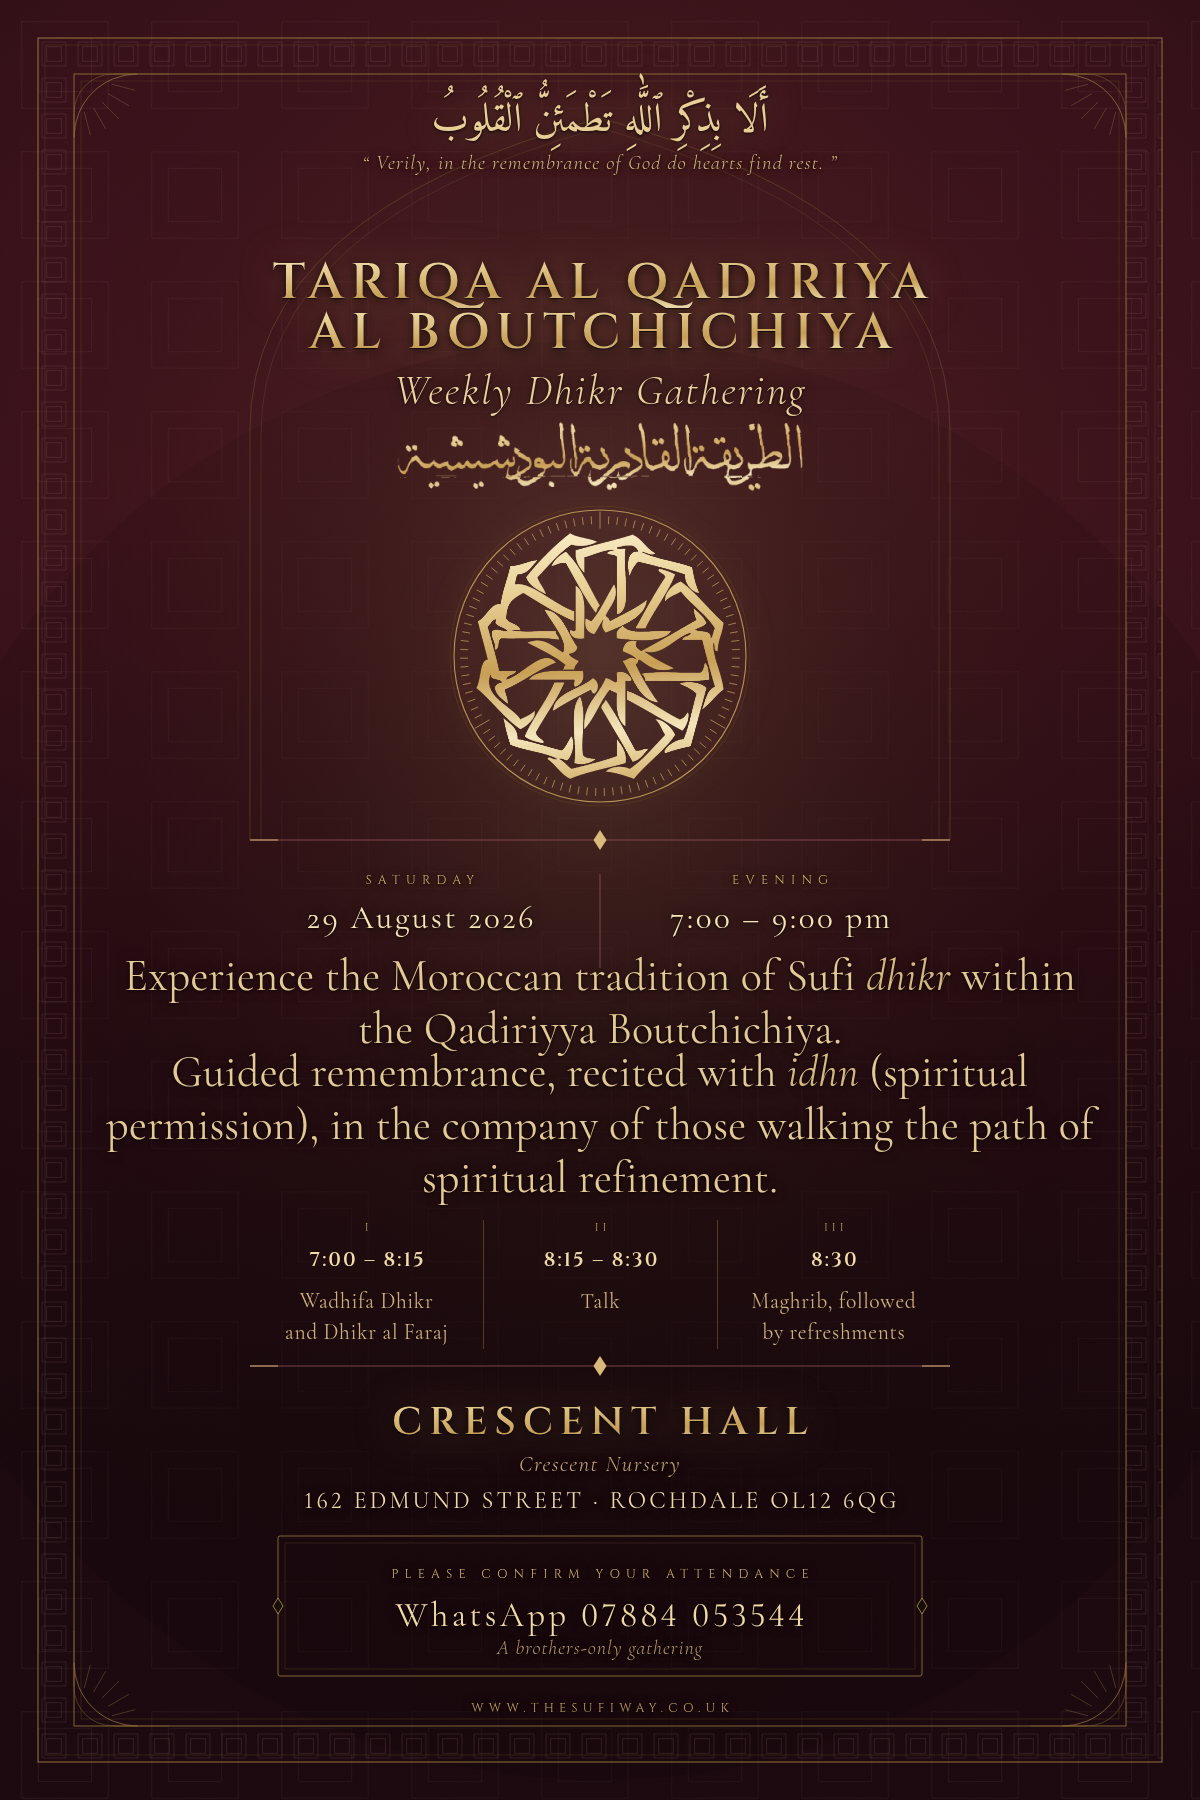
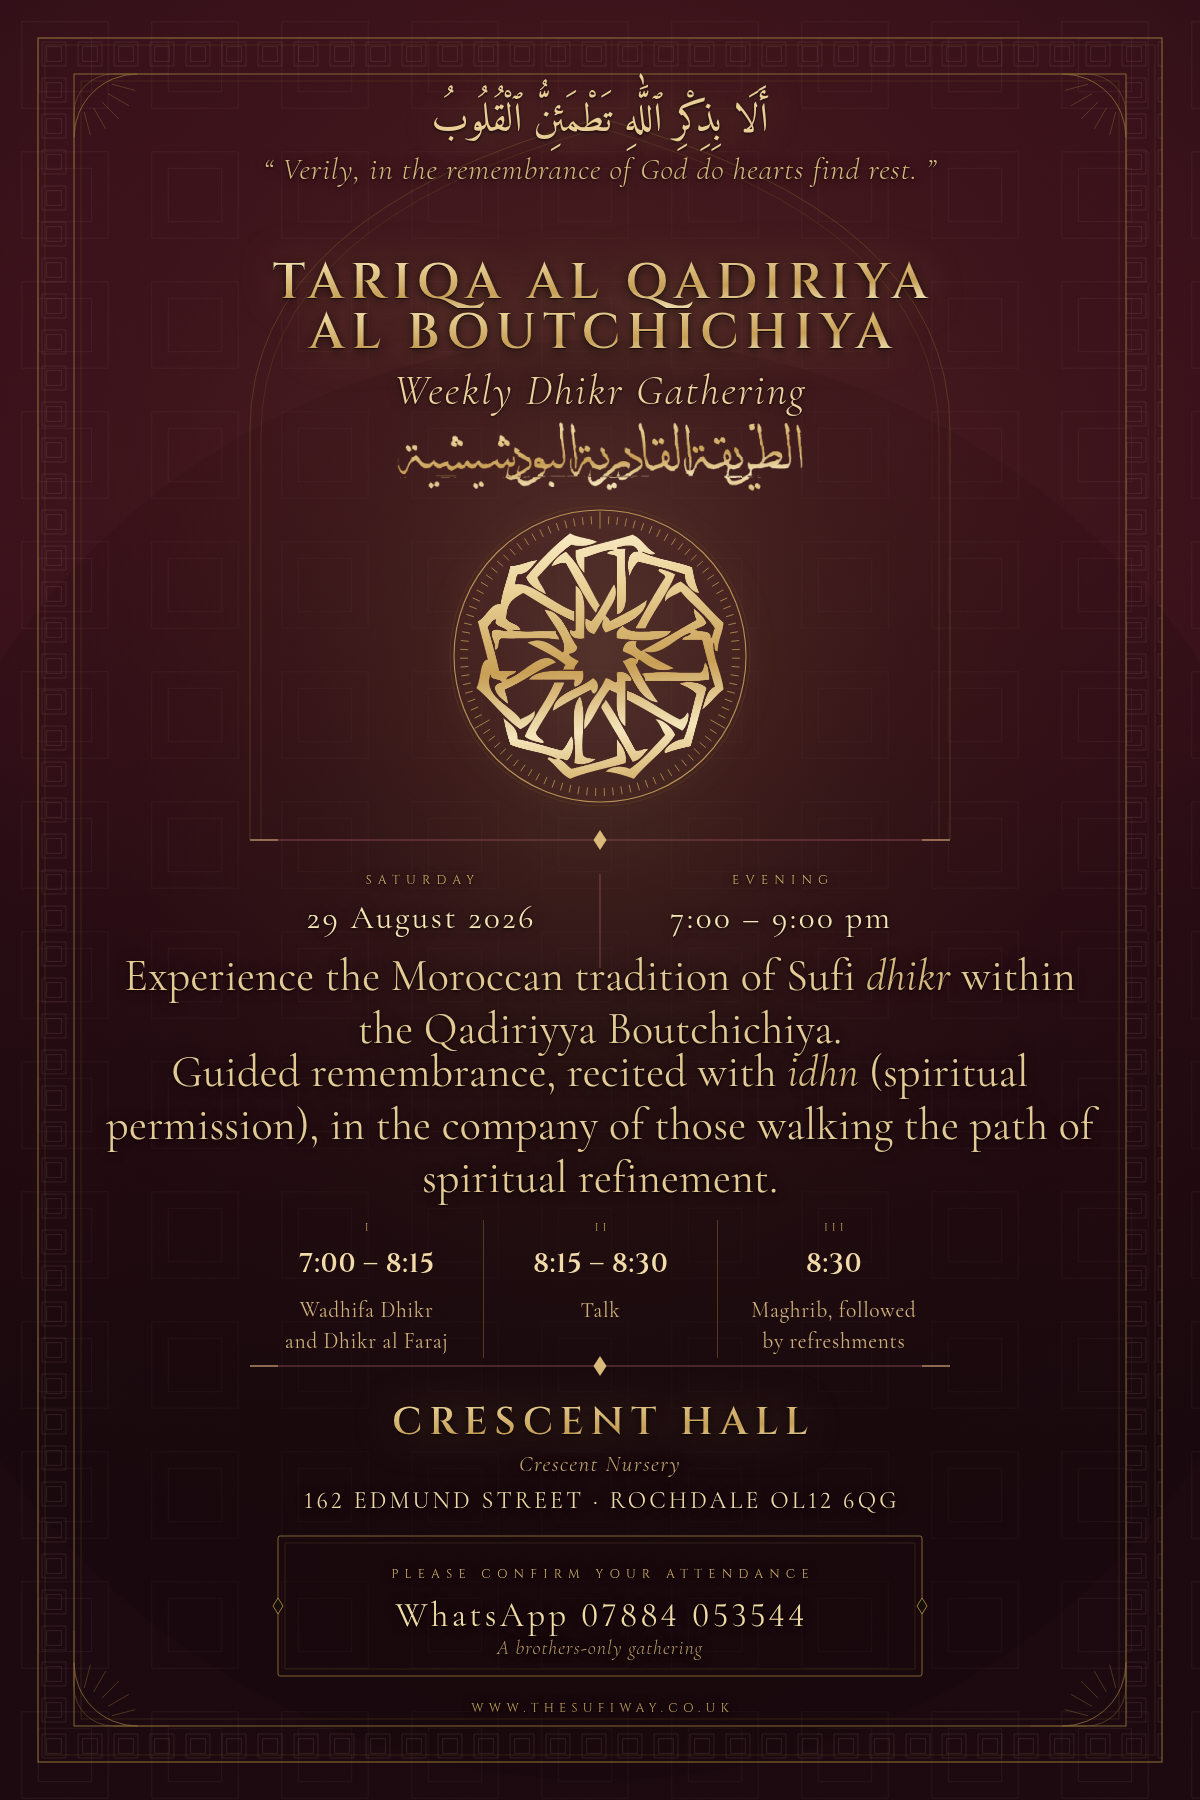
Enlarge the English translation and the programme timings
Two more type-scale bumps: the translation under the Arabic ayah goes
from 20.5px to 31px (it had full-width breathing room, so no layout
changes needed), and the programme times (7:00-8:15 etc.) go from 20px
to 27px with tighter tracking, checked against each column's width so
none of the three wrap.

Claude-Session: https://claude.ai/code/session_01W3RXmfEcLks2fUKiCDKANu

Changed region(s): [[0.2467, 0.6844, 0.37, 0.7467], [0.6167, 0.6844, 0.7708, 0.7467], [0.4317, 0.6844, 0.555, 0.7467]]

diff --git a/design/weekly-gathering/final/final.py b/design/weekly-gathering/final/final.py
@@ -129,8 +129,8 @@ html,body{{background:#000}}
 .at.gold{{text-shadow:none}}
 .ayah{{font-family:Amiri,serif;font-size:40px;line-height:1.55;color:{pal['ayah']};
   direction:rtl;filter:drop-shadow(0 0 16px rgba(214,172,100,.28))}}
-.gloss{{font-family:Cormorant,serif;font-style:italic;font-weight:300;font-size:20.5px;
-  letter-spacing:.055em;color:{pal['gloss']}}}
+.gloss{{font-family:Cormorant,serif;font-style:italic;font-weight:300;font-size:31px;
+  letter-spacing:.03em;color:{pal['gloss']}}}
 .t1{{font-family:Cinzel,serif;font-weight:600;font-size:50px;letter-spacing:.135em;
   text-indent:.135em;line-height:1}}
 .t2{{font-family:Cormorant,serif;font-style:italic;font-weight:300;font-size:43px;
@@ -142,8 +142,8 @@ html,body{{background:#000}}
 .body{{font-family:Cormorant,serif;font-weight:400;font-size:44px;line-height:1.2;
   letter-spacing:.005em;color:{pal['body']}}}
 .body em{{font-style:italic;color:{pal['gloss']}}}
-.pt{{font-variant-numeric:lining-nums;font-family:Cinzel,serif;font-weight:600;font-size:20px;letter-spacing:.1em;
-  text-indent:.1em;color:{pal['pt']}}}
+.pt{{font-variant-numeric:lining-nums;font-family:Cinzel,serif;font-weight:600;font-size:27px;letter-spacing:.03em;
+  text-indent:.03em;color:{pal['pt']}}}
 .pd{{font-family:Cormorant,serif;font-weight:400;font-size:21.5px;line-height:1.46;
   letter-spacing:.03em;color:{pal['pd']}}}
 .rn{{font-family:Cinzel,serif;font-size:11.5px;letter-spacing:.34em;text-indent:.34em;color:{pal['rn']}}}
